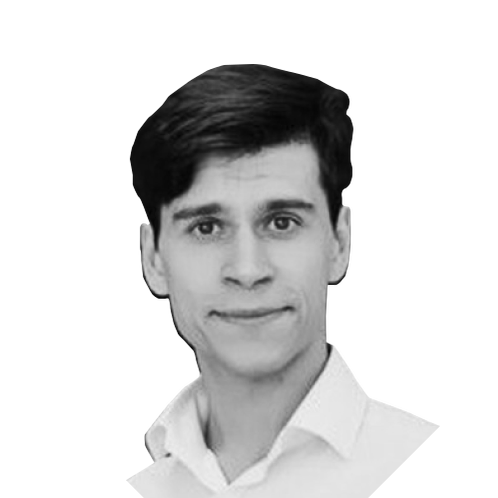
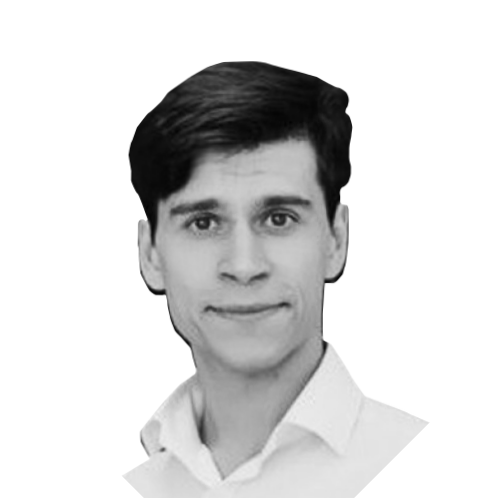
fix: take organizer bio from Markdown and realign the photo
The text about an organizer is now the Markdown body of the file, a list or a
paragraph, so editors do not need a special field. The portrait was cut with
an offset against the pink octagon, so it is rebuilt from the layout geometry.

diff --git a/packages/ui/src/components/OrganizerCard/OrganizerCard.css.ts b/packages/ui/src/components/OrganizerCard/OrganizerCard.css.ts
@@ -64,23 +64,47 @@ export const name = style({
   },
 });
 
-export const regalia = style({
-  margin: 0,
-  padding: 0,
-  listStyle: 'none',
+// Текст о человеке приходит из Markdown как есть: абзац, список или и то и другое.
+export const bio = style({
   font: vars.font.shorthand.cardBody,
   lineHeight: vars.adaptive.cardBodyLine,
   overflowWrap: 'anywhere',
 });
 
-globalStyle(`${regalia} li`, {
+globalStyle(`${bio} > * + *`, {
+  marginBlockStart: vars.spacing.s,
+});
+
+globalStyle(`${bio} p, ${bio} ul, ${bio} ol`, {
+  marginBlockEnd: 0,
+});
+
+globalStyle(`${bio} > :first-child`, {
+  marginBlockStart: 0,
+});
+
+globalStyle(`${bio} ul`, {
+  padding: 0,
+  listStyle: 'none',
+});
+
+globalStyle(`${bio} ul > li`, {
   display: vars.display.flex,
   gap: vars.spacing.s,
 });
 
-globalStyle(`${regalia} li::before`, {
+globalStyle(`${bio} ul > li::before`, {
   content: '">"',
   flex: '0 0 auto',
+});
+
+globalStyle(`${bio} a`, {
+  color: vars.color.speakerAccent,
+});
+
+globalStyle(`${bio} a:focus-visible`, {
+  outline: `${vars.border.width.thin} ${vars.border.style.solid} ${vars.color.focus}`,
+  outlineOffset: vars.spacing.xs,
 });
 
 export const contacts = style({

diff --git a/apps/website/src/content/catalog.test.ts b/apps/website/src/content/catalog.test.ts
@@ -170,11 +170,11 @@ describe('validateCatalog', () => {
     expect(message).not.toContain('поле status');
   });
 
-  it('организатор: согласованные переводы и разный текст регалий — без ошибок', () => {
+  it('организатор: согласованные переводы и разное имя — без ошибок', () => {
     const catalog = twoMeetupsCatalog();
     catalog.organizers = [
       organizer('ru/roman-troitsky'),
-      organizer('en/roman-troitsky', { name: 'Roman Troitsky', regalia: ['Organizer'] }),
+      organizer('en/roman-troitsky', { name: 'Roman Troitsky' }),
     ];
     expect(() => validateCatalog(catalog)).not.toThrow();
   });

diff --git a/packages/content/src/schema.ts b/packages/content/src/schema.ts
@@ -164,7 +164,6 @@ export const createOrganizerSchema = (image: ImageFunction) =>
       // Без фото блок фото на карточке не выводится.
       photo: image().optional(),
       photoAlt: z.string().min(1).optional(),
-      regalia: z.array(z.string().min(1)).optional(),
       contacts: z
         .object({
           telegram: url

diff --git a/apps/website/src/test/fixtures.ts b/apps/website/src/test/fixtures.ts
@@ -86,7 +86,6 @@ export function organizer(id: string, data: Partial<OrganizerData> = {}): Organi
     data: {
       name: 'Роман Троицкий',
       status: 'current',
-      regalia: ['Организатор'],
       contacts: { telegram: 'https://t.me/DreamShaded', website: 'https://vzhyx.io' },
       order: 1,
       draft: false,

diff --git a/packages/ui/AGENTS.md b/packages/ui/AGENTS.md
@@ -55,7 +55,7 @@ demoed in `apps/storybook`.
   `*.client.ts` and are initialised from the component's `<script>`.
 - **Notable components:** `TagPile` (topic tags that fall into a pile; static and
   fully visible without JS or under reduced motion), `OrganizerCard` (portrait slot
-  in an octagon, name, regalia, contacts; the contacts list may be empty),
+  in an octagon, name, text from Markdown in the default slot, contacts; the contacts list may be empty),
   `CallToAction` (floating registration button, `position: fixed`,
   `mix-blend-mode: difference`), `Button` (link or button, `default` and `nav`
   sizes), `CardSlider`/`Card`/`BlockTitle` (FAQ block), `NavBar` (header and the

diff --git a/packages/ui/CLAUDE.md b/packages/ui/CLAUDE.md
@@ -55,7 +55,7 @@ demoed in `apps/storybook`.
   `*.client.ts` and are initialised from the component's `<script>`.
 - **Notable components:** `TagPile` (topic tags that fall into a pile; static and
   fully visible without JS or under reduced motion), `OrganizerCard` (portrait slot
-  in an octagon, name, regalia, contacts; the contacts list may be empty),
+  in an octagon, name, text from Markdown in the default slot, contacts; the contacts list may be empty),
   `CallToAction` (floating registration button, `position: fixed`,
   `mix-blend-mode: difference`), `Button` (link or button, `default` and `nav`
   sizes), `CardSlider`/`Card`/`BlockTitle` (FAQ block), `NavBar` (header and the

diff --git a/packages/content/src/organizers/ru/roman-troitsky.md b/packages/content/src/organizers/ru/roman-troitsky.md
@@ -3,12 +3,12 @@ name: "Роман Троицкий"
 status: current
 photo: ../assets/roman-troitsky.png
 photoAlt: "Роман Троицкий"
-regalia:
-  - "руководитель направления исследования данных в ПАО Сбербанк"
-  - "ex-Senior Frontend Developer"
-  - "член программного комитета HolyJS"
 contacts:
   telegram: https://t.me/DreamShaded
   website: https://vzhyx.io
 order: 1
 ---
+
+- руководитель направления исследования данных в ПАО Сбербанк
+- ex-Senior Frontend Developer
+- член программного комитета HolyJS

diff --git a/packages/content/templates/ru/organizer.md b/packages/content/templates/ru/organizer.md
@@ -1,8 +1,6 @@
 ---
 name: "Имя Фамилия"
 status: current
-regalia:
-  - "Должность и место работы"
 contacts:
   telegram: https://t.me/username
 order: 1
@@ -12,3 +10,6 @@ draft: true
 # photo: ../assets/{{name}}.png и photoAlt: "что на фото". contacts: telegram, github и
 # website, все необязательные и только https; ненужные удалите. Уберите draft: true.
 ---
+
+- Должность и место работы
+- Роль в сообществе

diff --git a/packages/content/src/organizers/en/roman-troitsky.md b/packages/content/src/organizers/en/roman-troitsky.md
@@ -3,12 +3,12 @@ name: "Roman Troitsky"
 status: current
 photo: ../assets/roman-troitsky.png
 photoAlt: "Roman Troitsky"
-regalia:
-  - "Head of data research at Sberbank"
-  - "ex-Senior Frontend Developer"
-  - "HolyJS program committee member"
 contacts:
   telegram: https://t.me/DreamShaded
   website: https://vzhyx.io
 order: 1
 ---
+
+- Head of data research at Sberbank
+- ex-Senior Frontend Developer
+- HolyJS program committee member

diff --git a/packages/content/templates/en/organizer.md b/packages/content/templates/en/organizer.md
@@ -1,8 +1,6 @@
 ---
 name: "First Last"
 status: current
-regalia:
-  - "Job title and company"
 contacts:
   telegram: https://t.me/username
 order: 1
@@ -10,3 +8,6 @@ draft: true
 # Draft. status, photo, contacts and order must match the Russian file (the photo is shared between
 # languages). Remove draft: true.
 ---
+
+- Job title and company
+- Community role
